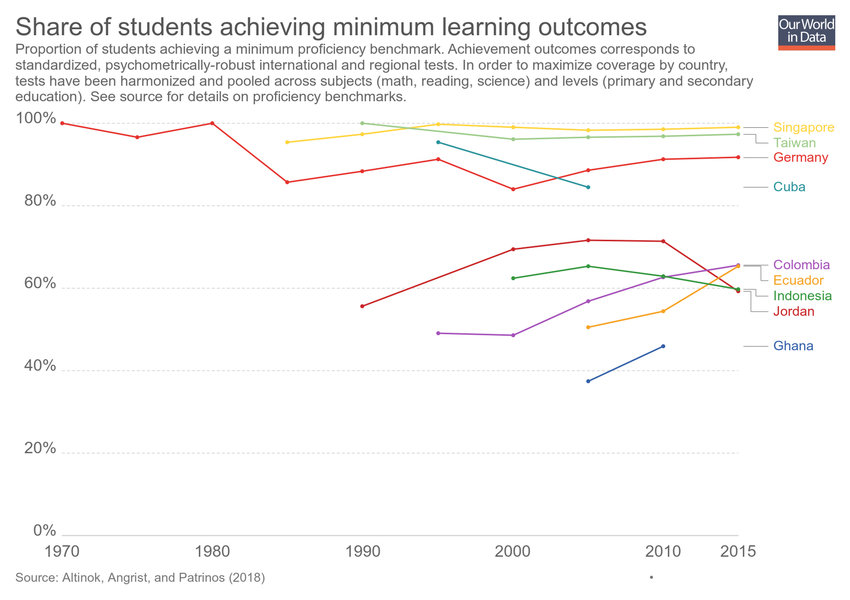
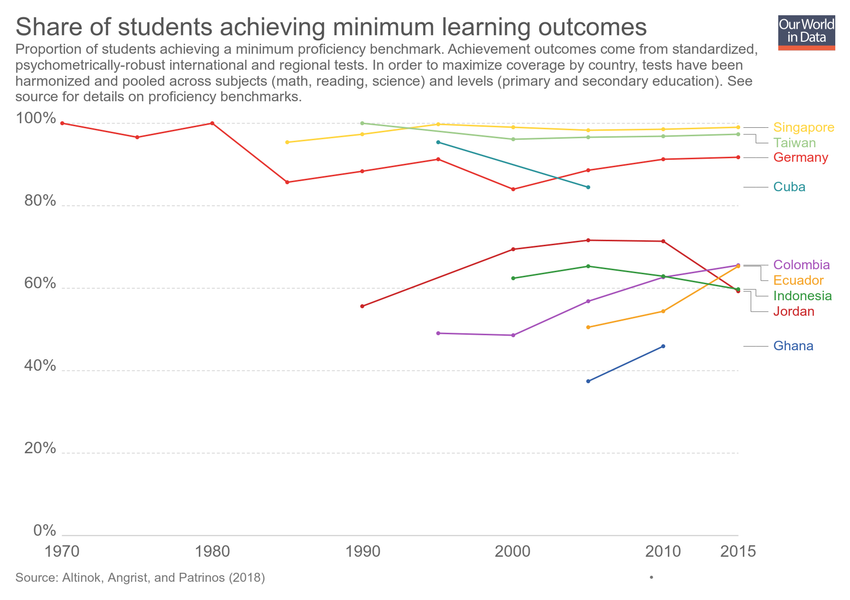
Updating chart share-of-students-achieving-the-minimum-threshold-score

Changed region(s): [[0.0, 0.06, 0.8871, 0.18]]

diff --git a/grapher/share-of-students-achieving-the-intermediate-threshold-score.html b/grapher/share-of-students-achieving-the-intermediate-threshold-score.html
@@ -1,4 +1,4 @@
-<!doctype html><html><head><meta name="viewport" content="width=device-width, initial-scale=1" /><title>Share of students achieving intermediate learning outcomes - Our World in Data</title><meta name="description" content="Proportion of students achieving an intermediate proficiency benchmark. Achievement outcomes come from standardized, psychometrically-robust international and regional tests. In order to maximize coverage by country, tests have been harmonized and pooled across subjects (math, reading, science) and levels (primary and secondary education). See source for details on proficiency benchmarks." /><link rel="canonical" href="https://ourworldindata.org/grapher/share-of-students-achieving-the-intermediate-threshold-score" /><meta property="fb:app_id" content="1149943818390250" /><meta property="og:url" content="https://ourworldindata.org/grapher/share-of-students-achieving-the-intermediate-threshold-score" /><meta property="og:title" content="Share of students achieving intermediate learning outcomes" /><meta property="og:description" content="Proportion of students achieving an intermediate proficiency benchmark. Achievement outcomes come from standardized, psychometrically-robust international and regional tests. In order to maximize coverage by country, tests have been harmonized and pooled across subjects (math, reading, science) and levels (primary and secondary education). See source for details on proficiency benchmarks." /><meta property="og:image" content="https://ourworldindata.org/grapher/exports/share-of-students-achieving-the-intermediate-threshold-score.png?v=5" /><meta property="og:image:width" content="850" /><meta property="og:image:height" content="600" /><meta property="og:site_name" content="Our World in Data" /><meta name="twitter:card" content="summary_large_image" /><meta name="twitter:site" content="@OurWorldInData" /><meta name="twitter:creator" content="@OurWorldInData" /><meta name="twitter:title" content="Share of students achieving intermediate learning outcomes" /><meta name="twitter:description" content="Proportion of students achieving an intermediate proficiency benchmark. Achievement outcomes come from standardized, psychometrically-robust international and regional tests. In order to maximize coverage by country, tests have been harmonized and pooled across subjects (math, reading, science) and levels (primary and secondary education). See source for details on proficiency benchmarks." /><meta name="twitter:image" content="https://ourworldindata.org/grapher/exports/share-of-students-achieving-the-intermediate-threshold-score.png?v=5" /><style>
+<!doctype html><html><head><meta name="viewport" content="width=device-width, initial-scale=1" /><title>Share of students achieving intermediate learning outcomes - Our World in Data</title><meta name="description" content="Proportion of students achieving an intermediate proficiency benchmark. Achievement outcomes come from standardized, psychometrically-robust international and regional tests. In order to maximize coverage by country, tests have been harmonized and pooled across subjects (math, reading, science) and levels (primary and secondary education). See source for details on proficiency benchmarks." /><link rel="canonical" href="https://ourworldindata.org/grapher/share-of-students-achieving-the-intermediate-threshold-score" /><meta property="fb:app_id" content="1149943818390250" /><meta property="og:url" content="https://ourworldindata.org/grapher/share-of-students-achieving-the-intermediate-threshold-score" /><meta property="og:title" content="Share of students achieving intermediate learning outcomes" /><meta property="og:description" content="Proportion of students achieving an intermediate proficiency benchmark. Achievement outcomes come from standardized, psychometrically-robust international and regional tests. In order to maximize coverage by country, tests have been harmonized and pooled across subjects (math, reading, science) and levels (primary and secondary education). See source for details on proficiency benchmarks." /><meta property="og:image" content="https://ourworldindata.org/grapher/exports/share-of-students-achieving-the-intermediate-threshold-score.png?v=6" /><meta property="og:image:width" content="850" /><meta property="og:image:height" content="600" /><meta property="og:site_name" content="Our World in Data" /><meta name="twitter:card" content="summary_large_image" /><meta name="twitter:site" content="@OurWorldInData" /><meta name="twitter:creator" content="@OurWorldInData" /><meta name="twitter:title" content="Share of students achieving intermediate learning outcomes" /><meta name="twitter:description" content="Proportion of students achieving an intermediate proficiency benchmark. Achievement outcomes come from standardized, psychometrically-robust international and regional tests. In order to maximize coverage by country, tests have been harmonized and pooled across subjects (math, reading, science) and levels (primary and secondary education). See source for details on proficiency benchmarks." /><meta name="twitter:image" content="https://ourworldindata.org/grapher/exports/share-of-students-achieving-the-intermediate-threshold-score.png?v=6" /><style>
         html, body {
             height: 100%;
             margin: 0;
@@ -20,8 +20,8 @@
         }
     </style><noscript><style>
                     figure { display: none !important; }
-                </style></noscript><link rel="stylesheet" href="https://ourworldindata.org/grapher/assets/commons.bundle.7bc7a3a90f15cac09df5.css" /><link rel="preload" href="/grapher/data/variables/97677.json?v=5" as="fetch" crossorigin /></head><body class="singleChart"><figure data-grapher-src="/grapher/share-of-students-achieving-the-intermediate-threshold-score"></figure><noscript id="fallback"><img src="/grapher/exports/share-of-students-achieving-the-intermediate-threshold-score.svg" /><p>Interactive visualization requires JavaScript</p></noscript><script src="https://cdn.polyfill.io/v2/polyfill.min.js?features=es6,fetch"></script><script src="https://ourworldindata.org/grapher/assets/commons.bundle.7bc7a3a90f15cac09df5.js"></script><script src="https://ourworldindata.org/grapher/assets/charts.bundle.7bc7a3a90f15cac09df5.js"></script><script>
-        var jsonConfig = {"id":2885,"map":{"projection":"World","targetYear":2015,"variableId":97677,"baseColorScheme":"GnBu","colorSchemeLabels":[],"colorSchemeValues":[],"customNumericColors":[],"customCategoryColors":{},"customCategoryLabels":{},"customHiddenCategories":{}},"tab":"chart","slug":"share-of-students-achieving-the-intermediate-threshold-score","type":"LineChart","title":"Share of students achieving intermediate learning outcomes","xAxis":{"scaleType":"linear"},"yAxis":{"max":100,"min":0,"scaleType":"linear"},"version":5,"subtitle":"Proportion of students achieving an intermediate proficiency benchmark. Achievement outcomes come from standardized, psychometrically-robust international and regional tests. In order to maximize coverage by country, tests have been harmonized and pooled across subjects (math, reading, science) and levels (primary and secondary education). See source for details on proficiency benchmarks.","hasMapTab":true,"stackMode":"absolute","dimensions":[{"display":{},"property":"y","variableId":97677}],"hasChartTab":true,"isPublished":true,"selectedData":[{"index":0,"entityId":86},{"index":0,"entityId":40},{"index":0,"entityId":37},{"index":0,"entityId":144},{"index":0,"entityId":130},{"index":0,"entityId":14},{"index":0,"entityId":155},{"index":0,"entityId":9},{"index":0,"entityId":97},{"index":0,"entityId":1}],"addCountryMode":"add-country"};
+                </style></noscript><link rel="stylesheet" href="https://ourworldindata.org/grapher/assets/commons.bundle.7bc7a3a90f15cac09df5.css" /><link rel="preload" href="/grapher/data/variables/97677.json?v=6" as="fetch" crossorigin /></head><body class="singleChart"><figure data-grapher-src="/grapher/share-of-students-achieving-the-intermediate-threshold-score"></figure><noscript id="fallback"><img src="/grapher/exports/share-of-students-achieving-the-intermediate-threshold-score.svg" /><p>Interactive visualization requires JavaScript</p></noscript><script src="https://cdn.polyfill.io/v2/polyfill.min.js?features=es6,fetch"></script><script src="https://ourworldindata.org/grapher/assets/commons.bundle.7bc7a3a90f15cac09df5.js"></script><script src="https://ourworldindata.org/grapher/assets/charts.bundle.7bc7a3a90f15cac09df5.js"></script><script>
+        var jsonConfig = {"id":2885,"map":{"projection":"World","targetYear":2015,"variableId":97677,"baseColorScheme":"GnBu","colorSchemeLabels":[],"colorSchemeValues":[],"customNumericColors":[],"customCategoryColors":{},"customCategoryLabels":{},"customHiddenCategories":{}},"tab":"chart","slug":"share-of-students-achieving-the-intermediate-threshold-score","type":"LineChart","title":"Share of students achieving intermediate learning outcomes","xAxis":{"scaleType":"linear"},"yAxis":{"max":100,"min":0,"scaleType":"linear"},"version":6,"subtitle":"Proportion of students achieving an intermediate proficiency benchmark. Achievement outcomes come from standardized, psychometrically-robust international and regional tests. In order to maximize coverage by country, tests have been harmonized and pooled across subjects (math, reading, science) and levels (primary and secondary education). See source for details on proficiency benchmarks.","hasMapTab":true,"stackMode":"absolute","dimensions":[{"display":{},"property":"y","variableId":97677}],"hasChartTab":true,"isPublished":true,"selectedData":[{"index":0,"entityId":86},{"index":0,"entityId":40},{"index":0,"entityId":37},{"index":0,"entityId":144},{"index":0,"entityId":130},{"index":0,"entityId":14},{"index":0,"entityId":155},{"index":0,"entityId":9},{"index":0,"entityId":97},{"index":0,"entityId":1}],"addCountryMode":"add-country"};
         var figure = document.getElementsByTagName("figure")[0];
         try {
             window.App = {};

diff --git a/grapher/share-of-students-achieving-the-minimum-threshold-score.html b/grapher/share-of-students-achieving-the-minimum-threshold-score.html
@@ -1,4 +1,4 @@
-<!doctype html><html><head><meta name="viewport" content="width=device-width, initial-scale=1" /><title>Share of students achieving minimum learning outcomes - Our World in Data</title><meta name="description" content="Proportion of students achieving a minimum proficiency benchmark. Achievement outcomes corresponds to standardized, psychometrically-robust international and regional tests. In order to maximize coverage by country, tests have been harmonized and pooled across subjects (math, reading, science) and levels (primary and secondary education). See source for details on proficiency benchmarks." /><link rel="canonical" href="https://ourworldindata.org/grapher/share-of-students-achieving-the-minimum-threshold-score" /><meta property="fb:app_id" content="1149943818390250" /><meta property="og:url" content="https://ourworldindata.org/grapher/share-of-students-achieving-the-minimum-threshold-score" /><meta property="og:title" content="Share of students achieving minimum learning outcomes" /><meta property="og:description" content="Proportion of students achieving a minimum proficiency benchmark. Achievement outcomes corresponds to standardized, psychometrically-robust international and regional tests. In order to maximize coverage by country, tests have been harmonized and pooled across subjects (math, reading, science) and levels (primary and secondary education). See source for details on proficiency benchmarks." /><meta property="og:image" content="https://ourworldindata.org/grapher/exports/share-of-students-achieving-the-minimum-threshold-score.png?v=4" /><meta property="og:image:width" content="850" /><meta property="og:image:height" content="600" /><meta property="og:site_name" content="Our World in Data" /><meta name="twitter:card" content="summary_large_image" /><meta name="twitter:site" content="@OurWorldInData" /><meta name="twitter:creator" content="@OurWorldInData" /><meta name="twitter:title" content="Share of students achieving minimum learning outcomes" /><meta name="twitter:description" content="Proportion of students achieving a minimum proficiency benchmark. Achievement outcomes corresponds to standardized, psychometrically-robust international and regional tests. In order to maximize coverage by country, tests have been harmonized and pooled across subjects (math, reading, science) and levels (primary and secondary education). See source for details on proficiency benchmarks." /><meta name="twitter:image" content="https://ourworldindata.org/grapher/exports/share-of-students-achieving-the-minimum-threshold-score.png?v=4" /><style>
+<!doctype html><html><head><meta name="viewport" content="width=device-width, initial-scale=1" /><title>Share of students achieving minimum learning outcomes - Our World in Data</title><meta name="description" content="Proportion of students achieving a minimum proficiency benchmark. Achievement outcomes come from standardized, psychometrically-robust international and regional tests. In order to maximize coverage by country, tests have been harmonized and pooled across subjects (math, reading, science) and levels (primary and secondary education). See source for details on proficiency benchmarks." /><link rel="canonical" href="https://ourworldindata.org/grapher/share-of-students-achieving-the-minimum-threshold-score" /><meta property="fb:app_id" content="1149943818390250" /><meta property="og:url" content="https://ourworldindata.org/grapher/share-of-students-achieving-the-minimum-threshold-score" /><meta property="og:title" content="Share of students achieving minimum learning outcomes" /><meta property="og:description" content="Proportion of students achieving a minimum proficiency benchmark. Achievement outcomes come from standardized, psychometrically-robust international and regional tests. In order to maximize coverage by country, tests have been harmonized and pooled across subjects (math, reading, science) and levels (primary and secondary education). See source for details on proficiency benchmarks." /><meta property="og:image" content="https://ourworldindata.org/grapher/exports/share-of-students-achieving-the-minimum-threshold-score.png?v=5" /><meta property="og:image:width" content="850" /><meta property="og:image:height" content="600" /><meta property="og:site_name" content="Our World in Data" /><meta name="twitter:card" content="summary_large_image" /><meta name="twitter:site" content="@OurWorldInData" /><meta name="twitter:creator" content="@OurWorldInData" /><meta name="twitter:title" content="Share of students achieving minimum learning outcomes" /><meta name="twitter:description" content="Proportion of students achieving a minimum proficiency benchmark. Achievement outcomes come from standardized, psychometrically-robust international and regional tests. In order to maximize coverage by country, tests have been harmonized and pooled across subjects (math, reading, science) and levels (primary and secondary education). See source for details on proficiency benchmarks." /><meta name="twitter:image" content="https://ourworldindata.org/grapher/exports/share-of-students-achieving-the-minimum-threshold-score.png?v=5" /><style>
         html, body {
             height: 100%;
             margin: 0;
@@ -20,8 +20,8 @@
         }
     </style><noscript><style>
                     figure { display: none !important; }
-                </style></noscript><link rel="stylesheet" href="https://ourworldindata.org/grapher/assets/commons.bundle.7bc7a3a90f15cac09df5.css" /><link rel="preload" href="/grapher/data/variables/97676.json?v=4" as="fetch" crossorigin /></head><body class="singleChart"><figure data-grapher-src="/grapher/share-of-students-achieving-the-minimum-threshold-score"></figure><noscript id="fallback"><img src="/grapher/exports/share-of-students-achieving-the-minimum-threshold-score.svg" /><p>Interactive visualization requires JavaScript</p></noscript><script src="https://cdn.polyfill.io/v2/polyfill.min.js?features=es6,fetch"></script><script src="https://ourworldindata.org/grapher/assets/commons.bundle.7bc7a3a90f15cac09df5.js"></script><script src="https://ourworldindata.org/grapher/assets/charts.bundle.7bc7a3a90f15cac09df5.js"></script><script>
-        var jsonConfig = {"id":2884,"map":{"projection":"World","targetYear":2010,"variableId":97676,"binStepSize":20,"baseColorScheme":"BuPu","colorSchemeLabels":[],"colorSchemeValues":[10,20,30,40,50,60,70,80,90,100],"customNumericColors":[null,null,null],"customCategoryColors":{},"customCategoryLabels":{},"customHiddenCategories":{}},"tab":"chart","slug":"share-of-students-achieving-the-minimum-threshold-score","type":"LineChart","title":"Share of students achieving minimum learning outcomes","xAxis":{"scaleType":"linear"},"yAxis":{"min":0,"scaleType":"linear"},"version":4,"subtitle":"Proportion of students achieving a minimum proficiency benchmark. Achievement outcomes corresponds to standardized, psychometrically-robust international and regional tests. In order to maximize coverage by country, tests have been harmonized and pooled across subjects (math, reading, science) and levels (primary and secondary education). See source for details on proficiency benchmarks.","hasMapTab":true,"stackMode":"absolute","dimensions":[{"display":{},"property":"y","variableId":97676}],"hasChartTab":true,"isPublished":true,"selectedData":[{"index":0,"entityId":130},{"index":0,"entityId":6},{"index":0,"entityId":150},{"index":0,"entityId":86},{"index":0,"entityId":198},{"index":0,"entityId":170},{"index":0,"entityId":164},{"index":0,"entityId":201},{"index":0,"entityId":136}],"addCountryMode":"add-country"};
+                </style></noscript><link rel="stylesheet" href="https://ourworldindata.org/grapher/assets/commons.bundle.7bc7a3a90f15cac09df5.css" /><link rel="preload" href="/grapher/data/variables/97676.json?v=5" as="fetch" crossorigin /></head><body class="singleChart"><figure data-grapher-src="/grapher/share-of-students-achieving-the-minimum-threshold-score"></figure><noscript id="fallback"><img src="/grapher/exports/share-of-students-achieving-the-minimum-threshold-score.svg" /><p>Interactive visualization requires JavaScript</p></noscript><script src="https://cdn.polyfill.io/v2/polyfill.min.js?features=es6,fetch"></script><script src="https://ourworldindata.org/grapher/assets/commons.bundle.7bc7a3a90f15cac09df5.js"></script><script src="https://ourworldindata.org/grapher/assets/charts.bundle.7bc7a3a90f15cac09df5.js"></script><script>
+        var jsonConfig = {"id":2884,"map":{"projection":"World","targetYear":2010,"variableId":97676,"binStepSize":20,"baseColorScheme":"BuPu","colorSchemeLabels":[],"colorSchemeValues":[10,20,30,40,50,60,70,80,90,100],"customNumericColors":[null,null,null],"customCategoryColors":{},"customCategoryLabels":{},"customHiddenCategories":{}},"tab":"chart","slug":"share-of-students-achieving-the-minimum-threshold-score","type":"LineChart","title":"Share of students achieving minimum learning outcomes","xAxis":{"scaleType":"linear"},"yAxis":{"min":0,"scaleType":"linear"},"version":5,"subtitle":"Proportion of students achieving a minimum proficiency benchmark. Achievement outcomes come from standardized, psychometrically-robust international and regional tests. In order to maximize coverage by country, tests have been harmonized and pooled across subjects (math, reading, science) and levels (primary and secondary education). See source for details on proficiency benchmarks.","hasMapTab":true,"stackMode":"absolute","dimensions":[{"display":{},"property":"y","variableId":97676}],"hasChartTab":true,"isPublished":true,"selectedData":[{"index":0,"entityId":130},{"index":0,"entityId":6},{"index":0,"entityId":150},{"index":0,"entityId":86},{"index":0,"entityId":198},{"index":0,"entityId":170},{"index":0,"entityId":164},{"index":0,"entityId":201},{"index":0,"entityId":136}],"addCountryMode":"add-country"};
         var figure = document.getElementsByTagName("figure")[0];
         try {
             window.App = {};
